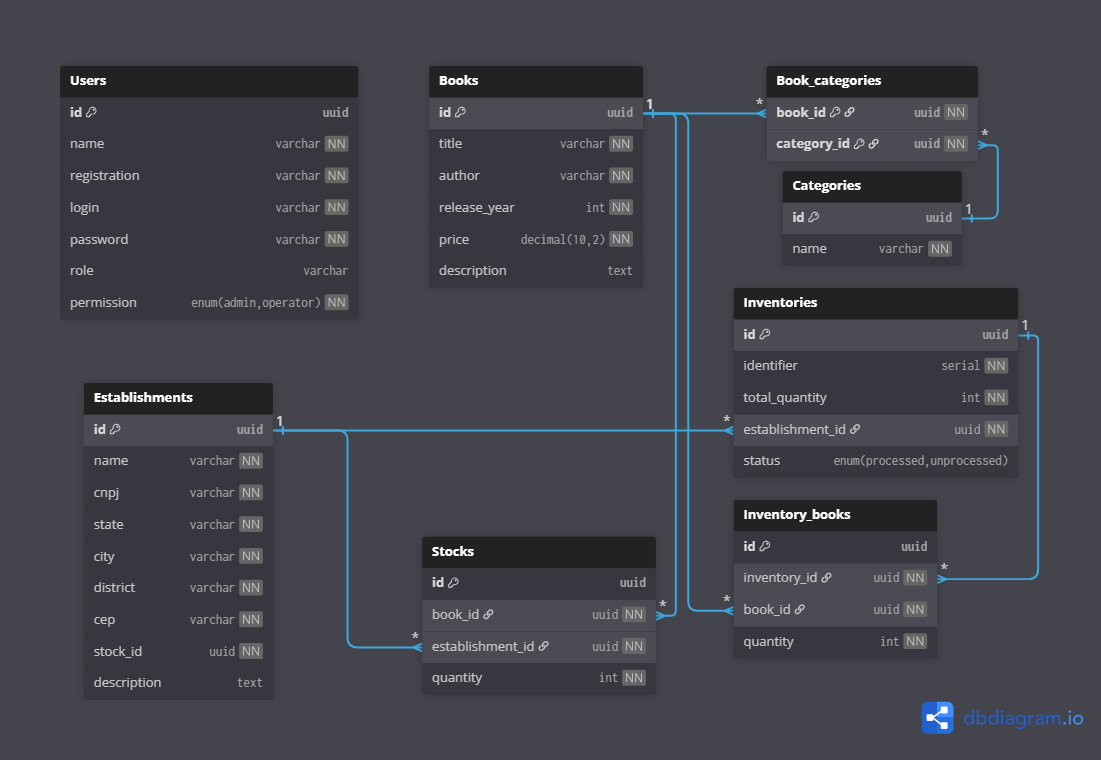
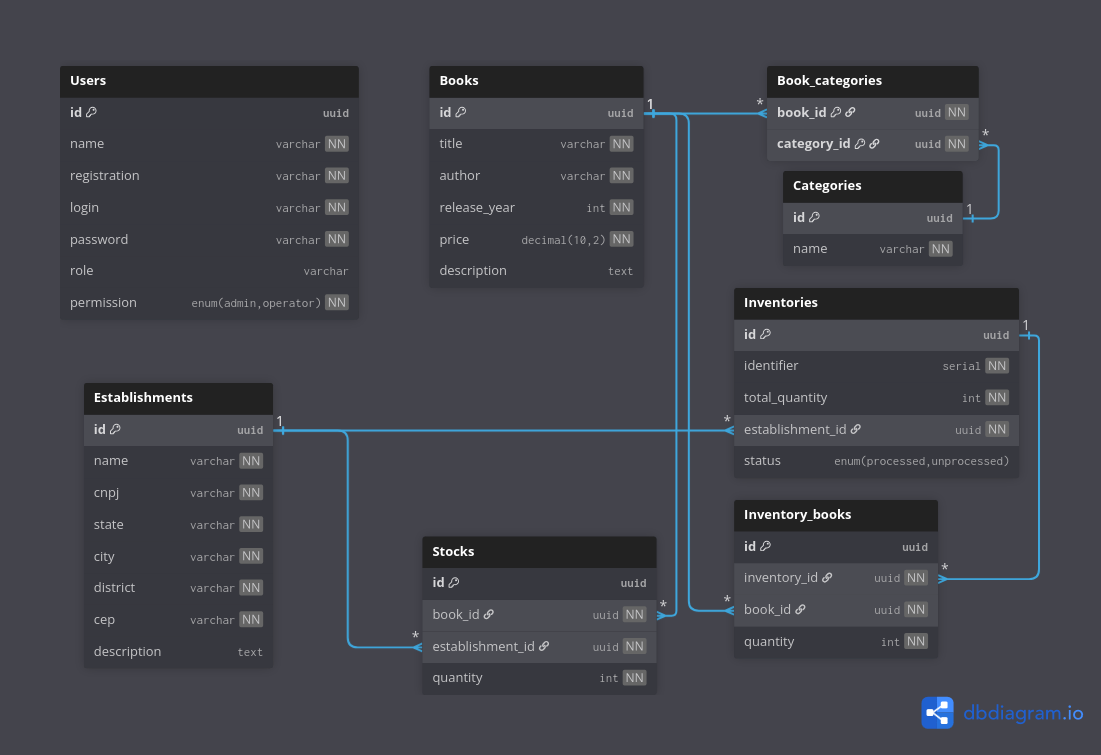
feat: new migrations of new database diagrams

diff --git a/src/infra/typeorm/migrations/1754518617100-AddTriggerToUpdateInventoryQuantity.ts b/src/infra/typeorm/migrations/1754518617100-AddTriggerToUpdateInventoryQuantity.ts
@@ -1,0 +1,58 @@
+import { MigrationInterface, QueryRunner } from "typeorm";
+
+export class AddTriggerToUpdateInventoryQuantity1754518617100
+  implements MigrationInterface
+{
+  public async up(queryRunner: QueryRunner): Promise<void> {
+    await queryRunner.query(`
+      CREATE OR REPLACE FUNCTION update_total_quantity()
+      RETURNS TRIGGER AS $$
+      BEGIN
+        UPDATE inventories
+        SET total_quantity = (
+          SELECT COALESCE(SUM(quantity), 0)
+          FROM inventory_books
+          WHERE inventory_id = NEW.inventory_id
+        )
+        WHERE id = NEW.inventory_id;
+
+        RETURN NEW;
+      END;
+      $$ LANGUAGE plpgsql;
+    `);
+
+    await queryRunner.query(`
+      CREATE TRIGGER trg_inventory_books_insert
+      AFTER INSERT ON inventory_books
+      FOR EACH ROW
+      EXECUTE FUNCTION update_total_quantity();
+    `);
+
+    await queryRunner.query(`
+      CREATE TRIGGER trg_inventory_books_update
+      AFTER UPDATE ON inventory_books
+      FOR EACH ROW
+      EXECUTE FUNCTION update_total_quantity();
+    `);
+
+    await queryRunner.query(`
+      CREATE TRIGGER trg_inventory_books_delete
+      AFTER DELETE ON inventory_books
+      FOR EACH ROW
+      EXECUTE FUNCTION update_total_quantity();
+    `);
+  }
+
+  public async down(queryRunner: QueryRunner): Promise<void> {
+    await queryRunner.query(
+      `DROP TRIGGER IF EXISTS trg_inventory_books_insert ON inventory_books`
+    );
+    await queryRunner.query(
+      `DROP TRIGGER IF EXISTS trg_inventory_books_update ON inventory_books`
+    );
+    await queryRunner.query(
+      `DROP TRIGGER IF EXISTS trg_inventory_books_delete ON inventory_books`
+    );
+    await queryRunner.query(`DROP FUNCTION IF EXISTS update_total_quantity`);
+  }
+}

diff --git a/src/infra/typeorm/migrations/1754518320883-CreateInventoryBooksTable.ts b/src/infra/typeorm/migrations/1754518320883-CreateInventoryBooksTable.ts
@@ -1,0 +1,52 @@
+import { MigrationInterface, QueryRunner, Table } from "typeorm";
+
+export class CreateInventoryBooksTable1754518320883
+  implements MigrationInterface
+{
+  public async up(queryRunner: QueryRunner): Promise<void> {
+    await queryRunner.createTable(
+      new Table({
+        name: "inventory_books",
+        columns: [
+          {
+            name: "id",
+            type: "uuid",
+            isPrimary: true,
+          },
+          {
+            name: "inventory_id",
+            type: "uuid",
+          },
+          {
+            name: "book_id",
+            type: "uuid",
+          },
+          {
+            name: "quantity",
+            type: "integer",
+          },
+        ],
+        foreignKeys: [
+          {
+            name: "FKInventoryBook",
+            referencedTableName: "inventories",
+            referencedColumnNames: ["id"],
+            columnNames: ["inventory_id"],
+            onDelete: "CASCADE",
+          },
+          {
+            name: "FKBookInventory",
+            referencedTableName: "books",
+            referencedColumnNames: ["id"],
+            columnNames: ["book_id"],
+            onDelete: "CASCADE",
+          },
+        ],
+      })
+    );
+  }
+
+  public async down(queryRunner: QueryRunner): Promise<void> {
+    await queryRunner.dropTable("inventory_books");
+  }
+}

diff --git a/src/infra/typeorm/migrations/1754517518175-CreateInventoriesTable.ts b/src/infra/typeorm/migrations/1754517518175-CreateInventoriesTable.ts
@@ -1,0 +1,50 @@
+import { MigrationInterface, QueryRunner, Table } from "typeorm";
+
+export class CreateInventoriesTable1754517518175 implements MigrationInterface {
+  public async up(queryRunner: QueryRunner): Promise<void> {
+    await queryRunner.createTable(
+      new Table({
+        name: "inventories",
+        columns: [
+          {
+            name: "id",
+            type: "uuid",
+            isPrimary: true,
+          },
+          {
+            name: "identifier",
+            type: "serial",
+            isUnique: true,
+          },
+          {
+            name: "total_quantity",
+            type: "integer",
+          },
+          {
+            name: "establishment_id",
+            type: "uuid",
+          },
+          {
+            name: "status",
+            type: "enum",
+            enum: ["processed", "unprocessed"],
+            default: `'unprocessed'`,
+          },
+        ],
+        foreignKeys: [
+          {
+            name: "FKInventoryEstablishment",
+            referencedTableName: "establishments",
+            referencedColumnNames: ["id"],
+            columnNames: ["establishment_id"],
+            onDelete: "CASCADE",
+          },
+        ],
+      })
+    );
+  }
+
+  public async down(queryRunner: QueryRunner): Promise<void> {
+    await queryRunner.dropTable("inventories");
+  }
+}

diff --git a/src/infra/typeorm/migrations/1754518907774-CreateStocksTable.ts b/src/infra/typeorm/migrations/1754518907774-CreateStocksTable.ts
@@ -1,0 +1,50 @@
+import { MigrationInterface, QueryRunner, Table } from "typeorm";
+
+export class CreateStocksTable1754518907774 implements MigrationInterface {
+  public async up(queryRunner: QueryRunner): Promise<void> {
+    await queryRunner.createTable(
+      new Table({
+        name: "stocks",
+        columns: [
+          {
+            name: "id",
+            type: "uuid",
+            isPrimary: true,
+          },
+          {
+            name: "book_id",
+            type: "uuid",
+          },
+          {
+            name: "establishment_id",
+            type: "uuid",
+          },
+          {
+            name: "quantity",
+            type: "integer",
+          },
+        ],
+        foreignKeys: [
+          {
+            name: "FKBookStock",
+            referencedTableName: "books",
+            referencedColumnNames: ["id"],
+            columnNames: ["book_id"],
+            onDelete: "CASCADE",
+          },
+          {
+            name: "FKEstablishmentStock",
+            referencedTableName: "establishments",
+            referencedColumnNames: ["id"],
+            columnNames: ["establishment_id"],
+            onDelete: "CASCADE",
+          },
+        ],
+      })
+    );
+  }
+
+  public async down(queryRunner: QueryRunner): Promise<void> {
+    await queryRunner.dropTable("stocks");
+  }
+}

diff --git a/src/infra/typeorm/migrations/1754517043993-CreateEstablishmentsTable.ts b/src/infra/typeorm/migrations/1754517043993-CreateEstablishmentsTable.ts
@@ -1,0 +1,54 @@
+import { MigrationInterface, QueryRunner, Table } from "typeorm";
+
+export class CreateEstablishmentsTable1754517043993
+  implements MigrationInterface
+{
+  public async up(queryRunner: QueryRunner): Promise<void> {
+    await queryRunner.createTable(
+      new Table({
+        name: "establishments",
+        columns: [
+          {
+            name: "id",
+            type: "uuid",
+            isPrimary: true,
+          },
+          {
+            name: "name",
+            type: "varchar",
+          },
+          {
+            name: "cnpj",
+            type: "varchar",
+            isUnique: true,
+          },
+          {
+            name: "state",
+            type: "varchar",
+          },
+          {
+            name: "city",
+            type: "varchar",
+          },
+          {
+            name: "district",
+            type: "varchar",
+          },
+          {
+            name: "cep",
+            type: "varchar",
+          },
+          {
+            name: "description",
+            type: "text",
+            isNullable: true,
+          },
+        ],
+      })
+    );
+  }
+
+  public async down(queryRunner: QueryRunner): Promise<void> {
+    await queryRunner.dropTable("Establishments");
+  }
+}
